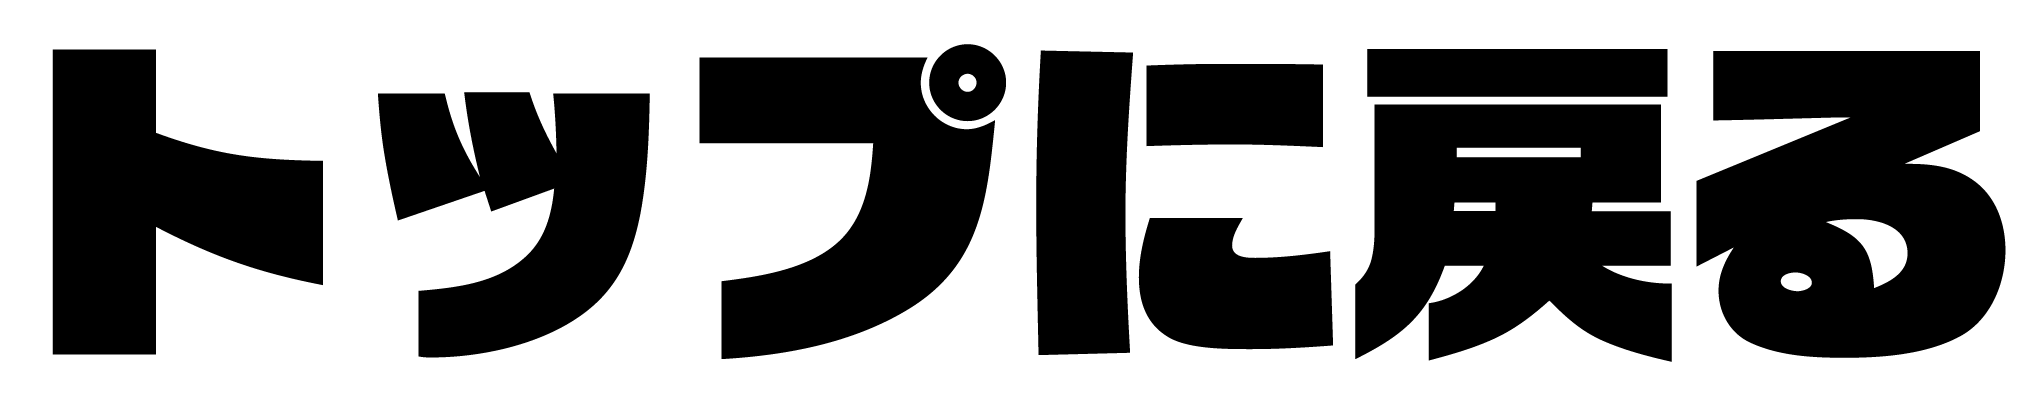
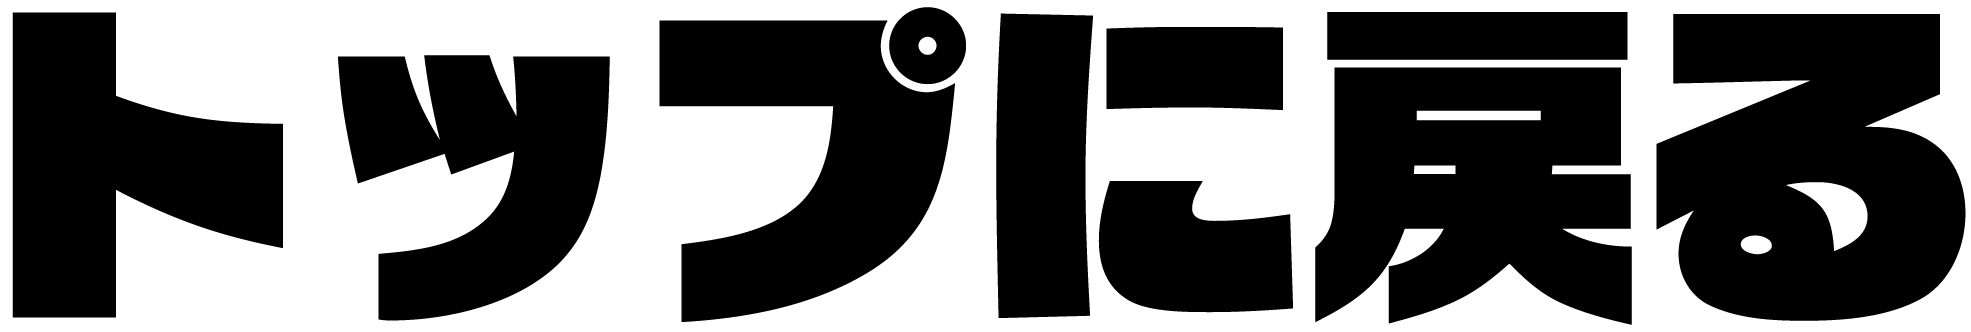
画像サイズの調整

diff --git a/js/function.js b/js/function.js
@@ -1,6 +1,6 @@
 
 
-$(function() {
+$(function () {
 	function init() {
 		handlePlayPage();
 		handleResultPage();
@@ -19,7 +19,7 @@ function handlePlayPage() {
 	if (!$('body').hasClass('play')) return;
 
 	// show-resultボタン押下時の処理
-	$('#show-result').on('click', function(e) {
+	$('#show-result').on('click', function (e) {
 
 		// デフォルトの動作をキャンセル
 		e.preventDefault();
@@ -34,7 +34,7 @@ function handlePlayPage() {
 
 		// 履歴保存
 		const history = JSON.parse(localStorage.getItem('omikujiHistory') || '[]');
-		
+
 		// 履歴に追加
 		history.push({ result, lucky, date: new Date().toLocaleString() });
 		// 履歴をlocalStorageに保存
@@ -51,7 +51,7 @@ function handlePlayPage() {
 
 // ===== 結果ページの処理 =====
 function handleResultPage() {
-	
+
 	// bodyにresultクラスがなければ終了
 	if (!$('body').hasClass('result')) return;
 
@@ -63,7 +63,10 @@ function handleResultPage() {
 	// 結果表示
 	$('#result-text').text(`${data.result.type}：${data.result.text}`);
 	// 画像の設定
-	$('#result-img').attr('src', data.result.img).attr('alt', data.result.type);
+	$('#result-img')
+		.attr('src', data.result.img)
+		.attr('alt', data.result.type)
+		.addClass('result_img');
 
 	// 結果に応じたクラスをbodyに追加	
 	$('body').addClass('js-' + data.result.type);
@@ -96,9 +99,9 @@ function handleHistoryPage() {
 		);
 		$list.append($li);
 	});
-	
+
 	// 履歴削除ボタン処理
-	$('#clear-history').on('click', function() {
+	$('#clear-history').on('click', function () {
 		if (confirm('履歴をすべて削除しますか？')) {
 			localStorage.removeItem('omikujiHistory');
 			$list.empty();

diff --git a/index.html b/index.html
@@ -4,6 +4,8 @@
 <head>
   <meta charset="UTF-8">
   <title>おみくじアプリ</title>
+  <link rel="stylesheet" href="css/style.css">
+  <link rel="stylesheet" href="css/reset.css">
   <script src="js/jquery-3.7.1.min.js"></script>
   <script src="js/settings.js"></script>
   <script src="js/function.js"></script>
@@ -12,10 +14,11 @@
 <body class="index">
   <h1><img src="images/txt_" alt="おみくじアプリ"></h1>
   <div class="main-visual">
-    <img src="images/top/05_omikuzi.png" alt="おみくじのメインビジュアル">
+    <img src="images/top/05_omikuji.png" alt="おみくじのメインビジュアル" class="main-visual-omikuji">
   </div>
-  <p><a href="play.html"><img src="images/txt/09_omikuzi_txt.png" alt="おみくじを引く"></a></p>
-  <p><a href="history.html"><img src="images/txt/13_history_txt.png" alt="履歴を見る"></a></p>
+  <p class="btn"><a href="play.html"><img src="images/txt/09_omikuji_txt.png" alt="おみくじを引く" class="btn-img_hiku"></a>
+  </p>
+  <p class="btn"><a href="history.html"><img src="images/txt/13_history_txt.png" alt="履歴を見る" class="btn-img"></a></p>
 </body>
 
 </html>

diff --git a/js/settings.js b/js/settings.js
@@ -1,9 +1,29 @@
 // おみくじ結果リスト
 const omikujiResults = [
-  { type: "大吉", text: "最高の一日になります！", img: "images/result/01_daikichi.png" },
-  { type: "中吉", text: "いいことがあるかも！", img: "images/result/02_chukichi.png" },
-  { type: "小吉", text: "少し嬉しい出来事が…", img: "images/result/03_shokichi.png" },
-  { type: "凶", text: "気をつけて過ごしましょう", img: "images/result/04_kyou.png" }
+  {
+    type: "大吉",
+    text: "最高の一日になります！",
+    img: "images/result/01_daikichi.png",
+    class: "result_img"
+  },
+  {
+    type: "中吉",
+    text: "いいことがあるかも！",
+    img: "images/result/02_chukichi.png",
+    class: "result_img"
+  },
+  {
+    type: "小吉",
+    text: "少し嬉しい出来事が…",
+    img: "images/result/03_shokichi.png",
+    class: "result_img"
+  },
+  {
+    type: "凶",
+    text: "気をつけて過ごしましょう",
+    img: "images/result/04_kyou.png",
+    class: "result_img"
+  }
 ];
 
 // ラッキーアイテム

diff --git a/history.html b/history.html
@@ -4,6 +4,8 @@
 <head>
   <meta charset="UTF-8">
   <title>おみくじ履歴</title>
+  <link rel="stylesheet" href="css/style.css">
+  <link rel="stylesheet" href="css/reset.css">
   <script src="js/jquery-3.7.1.min.js"></script>
   <script src="js/settings.js"></script>
   <script src="js/function.js"></script>
@@ -12,8 +14,9 @@
 <body class="history">
   <h1>履歴</h1>
   <ul id="history-list"></ul>
-  <p><button id="clear-history"><img src="images/txt/14_history_delete_txt.png" alt="履歴を削除"></button></p>
-  <p><a href="index.html"><img src="images/txt/10_top_txt.png" alt="トップに戻る"></a></p>
+  <p class="btn"><button id="clear-history"><img src="images/txt/14_history_delete_txt.png" alt="履歴を削除"
+        class="btn-img"></button></p>
+  <p class="btn"><a href="index.html"><img src="images/txt/10_top_txt.png" alt="トップに戻る" class="btn-img"></a></p>
 </body>
 
 </html>

diff --git a/play.html b/play.html
@@ -4,6 +4,8 @@
 <head>
   <meta charset="UTF-8">
   <title>おみくじ演出</title>
+  <link rel="stylesheet" href="css/style.css">
+  <link rel="stylesheet" href="css/reset.css">
   <script src="js/jquery-3.7.1.min.js"></script>
   <script src="js/settings.js"></script>
   <script src="js/function.js"></script>
@@ -12,9 +14,10 @@
 <body class="play">
   <h1>何が出るでしょうか</h1>
   <div class="animation">
-    <img src="images/play/06_omikuzi_naname.png" alt="おみくじを振る演出">
+    <img src="images/play/06_omikuji_naname.png" alt="おみくじを振る演出" class="animation-omikuji">
   </div>
-  <p><a href="#" id="show-result"><img src="images/txt/12_result_txt.png" alt="結果を見る"></a></p>
+  <p class="btn"><a href="#" id="show-result"><img src="images/txt/12_result_txt.png" alt="結果を見る" class="btn-img"></a>
+  </p>
 </body>
 
 </html>

diff --git a/result.html b/result.html
@@ -4,6 +4,8 @@
 <head>
   <meta charset="UTF-8">
   <title>おみくじ結果</title>
+  <link rel="stylesheet" href="css/style.css">
+  <link rel="stylesheet" href="css/reset.css">
   <script src="js/jquery-3.7.1.min.js"></script>
   <script src="js/settings.js"></script>
   <script src="js/function.js"></script>
@@ -22,8 +24,10 @@
     <p id="lucky-item"></p>
   </div>
 
-  <p><a href="index.html"><img src="images/txt/11_onemore_txt.png" alt="もう一度引く"></a></p>
-  <p><a href="history.html"><img src="images/txt/13_history_txt.png" alt="履歴を見る"></a></p>
+  <p class="btn"><a href="index.html"><img src="images/txt/11_onemore_txt.png" alt="もう一度引く"
+        class="btn-img_more_hiku"></a>
+  </p>
+  <p class="btn"><a href="history.html"><img src="images/txt/13_history_txt.png" alt="履歴を見る" class="btn-img"></a></p>
 </body>
 
 </html>

diff --git a/css/style.css b/css/style.css
@@ -1,0 +1,32 @@
+/* imgの大きさ調整 */
+.main-visual-omikuji {
+    width: 20%;
+    height: auto;
+}
+
+.animation-omikuji {
+    width: 20%;
+    height: auto;
+}
+
+.btn-img {
+    width: 22%;
+    height: auto;
+}
+
+/* おみくじを引く */
+.btn-img_hiku {
+    width: 30%;
+    height: auto;
+}
+
+/* もう一度引く */
+.btn-img_more_hiku {
+    width: 27%;
+    height: auto;
+}
+
+.result_img {
+    width: 20%;
+    height: auto;
+}
